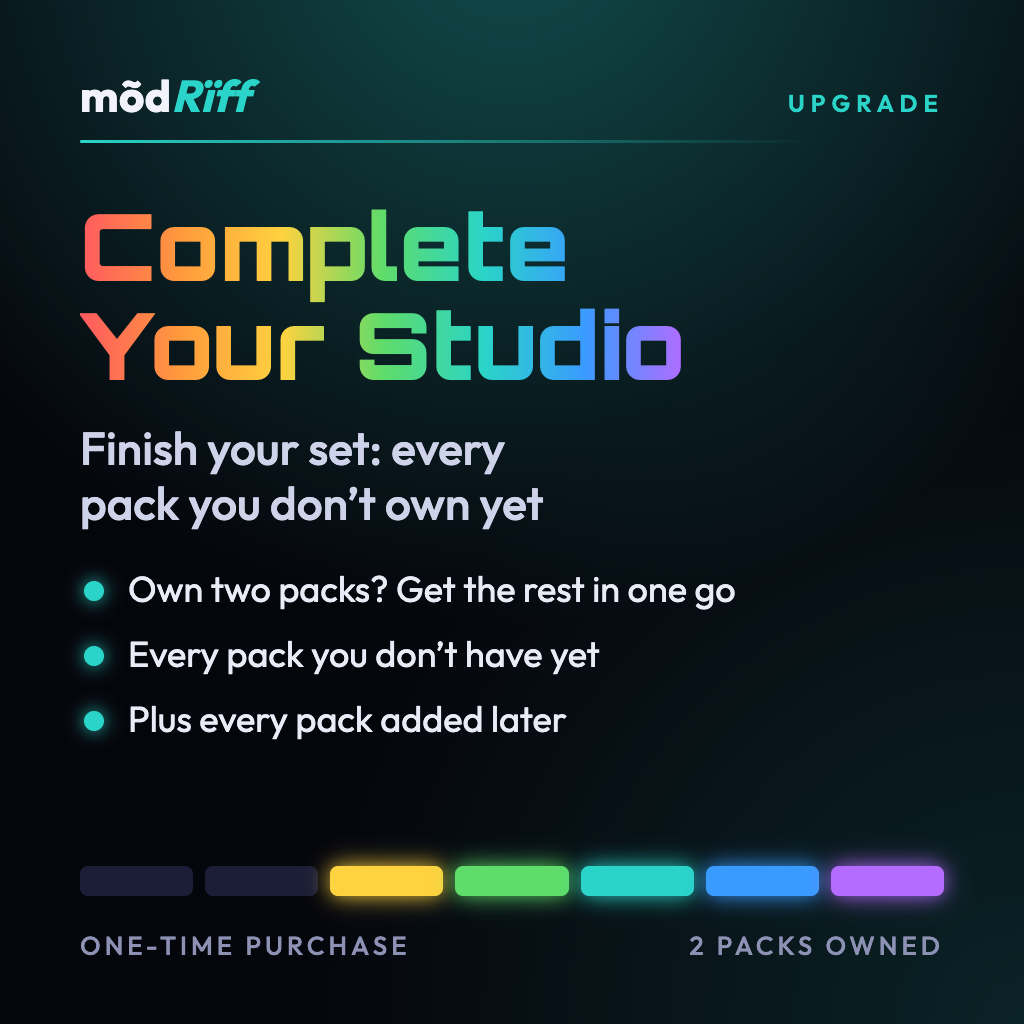
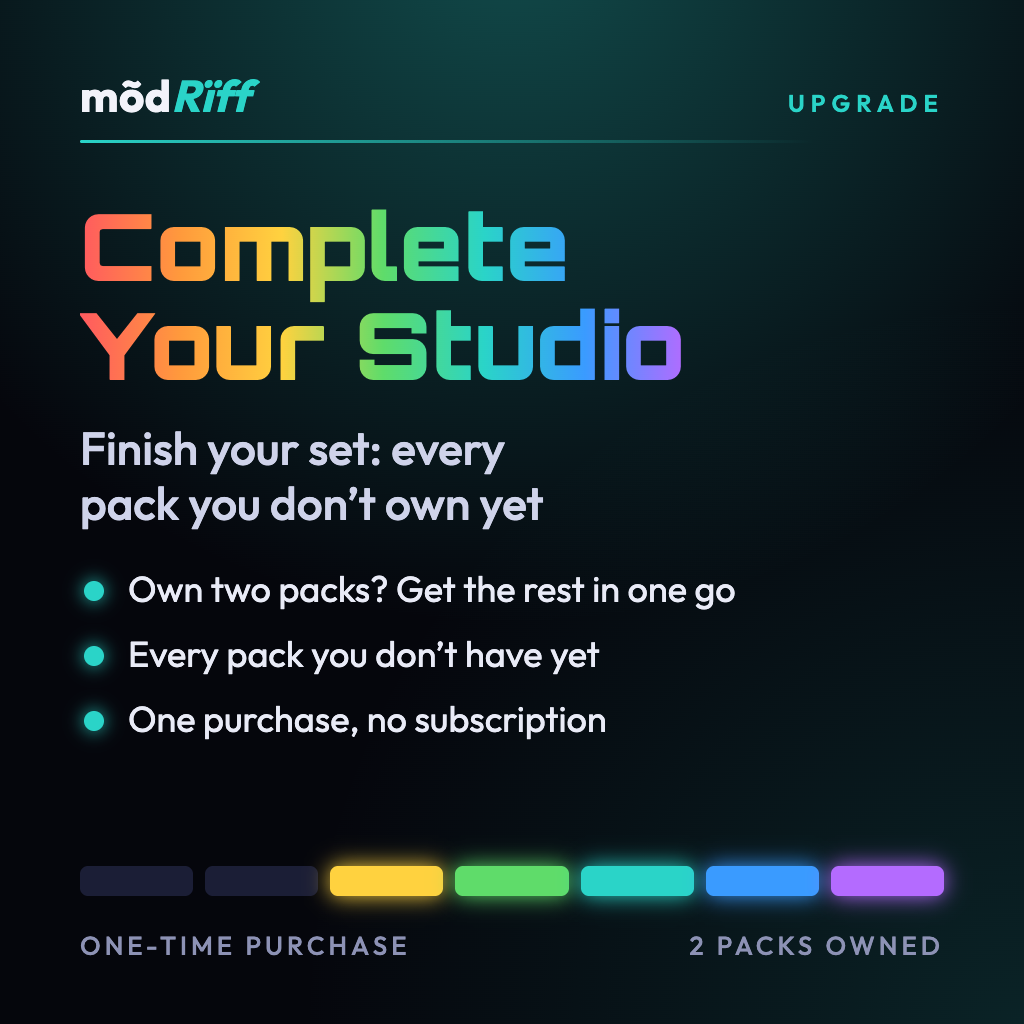
Promo images: Full Studio and Complete Your Studio no longer promise future packs
Template copy changed and the four affected 1024 x 1024 images re-rendered
(Full Studio and the three Complete Your Studio upgrades); the other seven
come out byte-identical. OCR of all eleven finds no "future" or "later".

Changed region(s): [[0.125, 0.6875, 0.5938, 0.7188]]

diff --git a/docs/app-store/promo/promo.html b/docs/app-store/promo/promo.html
@@ -73,7 +73,7 @@ if(P[id]){
 } else { // from1, from2, from3plus
  var own={from1:1,from2:2,from3plus:3}[id], more=id==='from3plus'?'Own three or more':'Own '+['','one','two'][own];
  d={t:['Complete','Your Studio'],s:92,l:'Finish your set: every pack you don’t own yet',
-    b:[more+(own===1?' pack?':' packs?')+(id==='from3plus'?'':' Get the rest in one go'),'Every pack you don’t have yet','Plus every pack added later']};
+    b:[more+(own===1?' pack?':' packs?')+(id==='from3plus'?'':' Get the rest in one go'),'Every pack you don’t have yet','One purchase, no subscription']};
  if(id==='from3plus') d.b[0]='Own three or more packs? Get what’s left';
  document.body.classList.add('rainbow'); document.body.style.setProperty('--a','#2ad4c8');
  kind.textContent='Upgrade'; f1.textContent='One-time purchase'; f2.textContent=id==='from3plus'?'3+ packs owned':own+(own===1?' pack owned':' packs owned');
